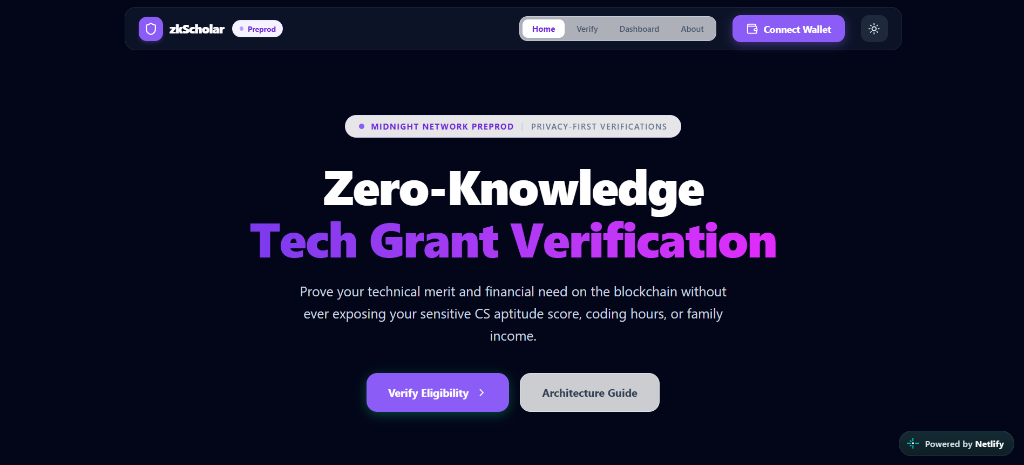
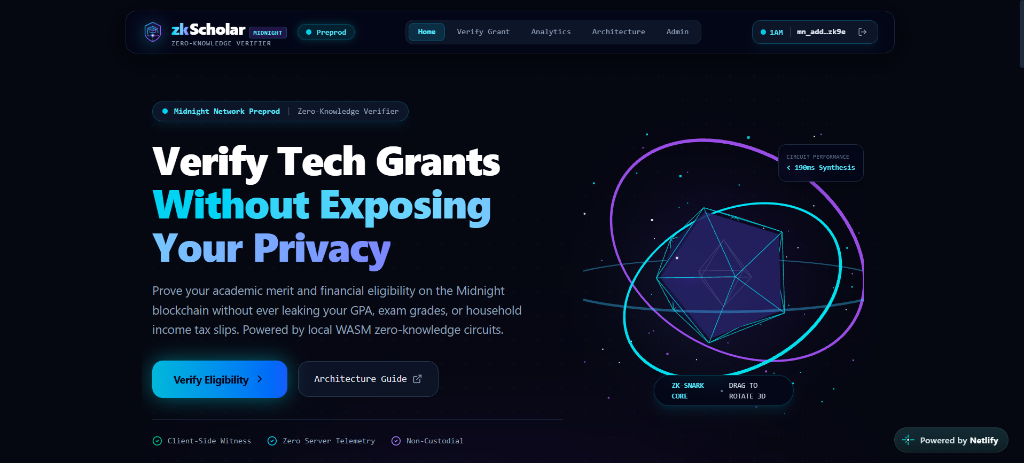
docs: update README with new UI screenshots and updated demo video presentation

diff --git a/README.md b/README.md
@@ -37,7 +37,7 @@ zkScholar is a decentralized application (dApp) engineered on the **Midnight Net
 
 - **Live Application (Netlify):** [https://zk-scholar.netlify.app/](https://zk-scholar.netlify.app/)
 - **Deployed Contract (Midnight Preprod):** [5a9cd8179b54c81863309dcfacd83f8207f0fc35a1ab79cc4ff524b334c8ae1e](https://preprod.midnightexplorer.com/contracts/5a9cd8179b54c81863309dcfacd83f8207f0fc35a1ab79cc4ff524b334c8ae1e)
-- **Demo Video Presentation:** [Watch on Google Drive](https://drive.google.com/file/d/18nvO0s5JXgGrngQvlMG7VHUd33NUQtqu/view?usp=sharing)
+- **Demo Video Presentation:** [Watch on Google Drive](https://drive.google.com/file/d/1ObGCDBmL-9gjEQNL5sjC4Dhfmi1YMQNl/view?usp=sharing)
 - **Public Brand Presence (X Profile):** [https://x.com/amanraj316/status/2102467601859527155?s=20](https://x.com/amanraj316/status/2102467601859527155?s=20)
 
 ---
@@ -173,7 +173,7 @@ This repository fulfills the strict progression requirements of the "New Moon to
 - **Status:** Complete.
   - **Live Application:** [https://zk-scholar.netlify.app/](https://zk-scholar.netlify.app/)
   - **Deployed Contract (Preprod):** [5a9cd8179b54c81863309dcfacd83f8207f0fc35a1ab79cc4ff524b334c8ae1e](https://preprod.midnightexplorer.com/contracts/5a9cd8179b54c81863309dcfacd83f8207f0fc35a1ab79cc4ff524b334c8ae1e)
-  - **Demo Video Presentation:** [Watch on Google Drive](https://drive.google.com/file/d/18nvO0s5JXgGrngQvlMG7VHUd33NUQtqu/view?usp=sharing)
+  - **Demo Video Presentation:** [Watch on Google Drive](https://drive.google.com/file/d/1ObGCDBmL-9gjEQNL5sjC4Dhfmi1YMQNl/view?usp=sharing)
   - **Public Brand Presence (X Profile):** [https://x.com/amanraj316/status/2102467601859527155?s=20](https://x.com/amanraj316/status/2102467601859527155?s=20)
 
 ---
